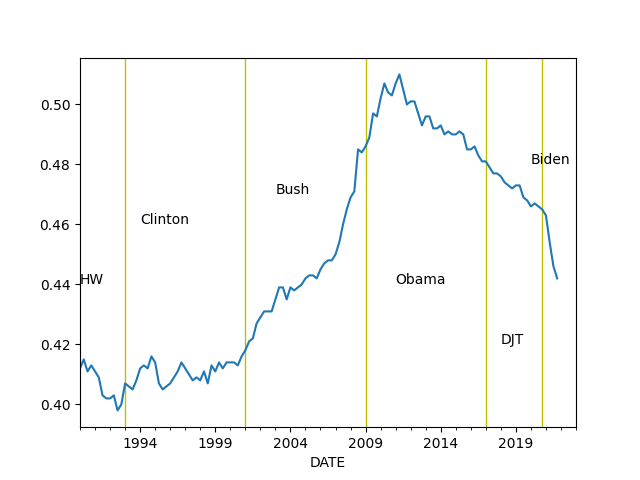
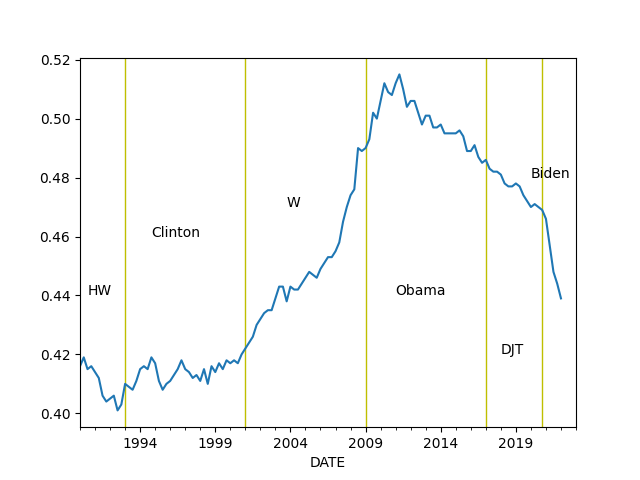
--

diff --git a/en/2019/05/stats.md b/en/2019/05/stats.md
@@ -515,10 +515,10 @@ plt.savefig('wilshire.png')
 ```text
             WILL5000IND
 DATE                   
-2022-06-07       204.81
-2022-06-08       202.55
-2022-06-09       197.70
-2022-06-10       191.86
+2022-06-13       184.02
+2022-06-14       183.42
+2022-06-15       186.21
+2022-06-16       179.80
 ```
 
 ![](wilshire.png)
@@ -787,9 +787,9 @@ plt.axvspan('2009-01-01','2009-01-01',color='y')
 plt.axvspan('2017-01-01','2017-01-01',color='y')
 
 plt.axvspan('2020-12-01','2020-12-01',color='y')
-plt.text('1990-01-01',0.44,'HW')
-plt.text('1994-01-01',0.46,'Clinton')
-plt.text('2003-01-01',0.47,'Bush')
+plt.text('1990-07-01',0.44,'HW')
+plt.text('1994-10-01',0.46,'Clinton')
+plt.text('2003-12-01',0.47,'W')
 plt.text('2011-01-01',0.44,'Obama')
 plt.text('2018-01-01',0.42,'DJT')
 plt.text('2020-03-01',0.48,'Biden')
@@ -798,10 +798,10 @@ plt.savefig('gini.png')
 
 ```text
 DATE
-2021-01-01    0.463
-2021-04-01    0.454
-2021-07-01    0.446
-2021-10-01    0.442
+2021-04-01    0.457
+2021-07-01    0.448
+2021-10-01    0.444
+2022-01-01    0.439
 dtype: float64
 ```
 
